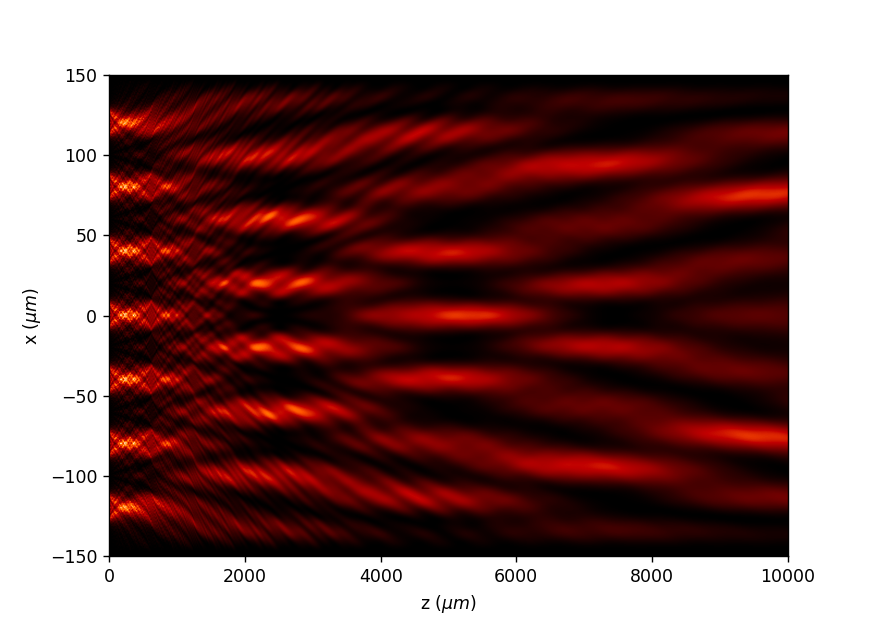
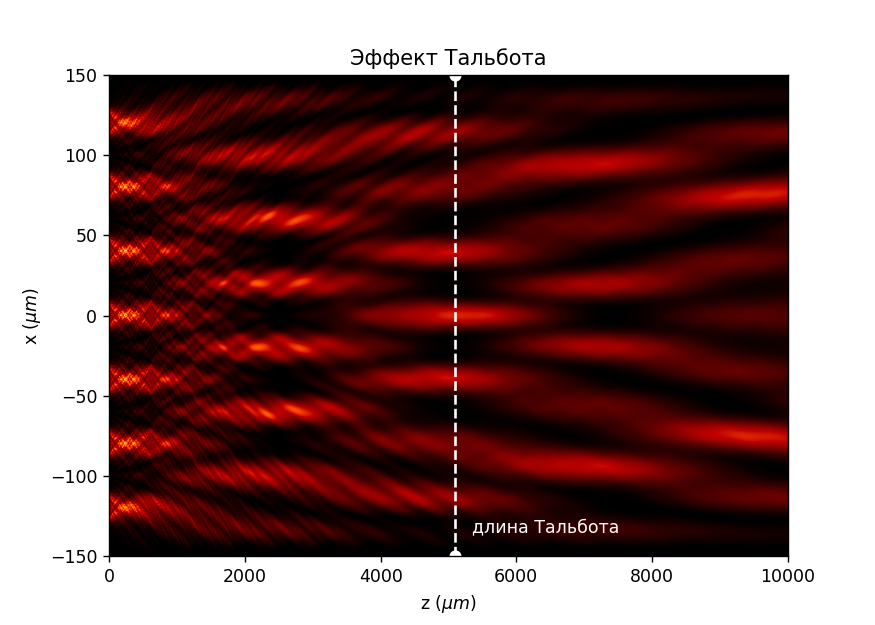
ADD: Talbot length line, title for a plot, and changed .gitignore for .idea dir

diff --git a/main.py b/main.py
@@ -13,10 +13,11 @@ import config
 rcParams['figure.figsize'] = (config.picture_resolution_x, config.picture_resolution_y)
 rcParams['figure.dpi'] = config.dpi
 
-x = np.linspace(config.start_x_axic, -config.start_x_axic, config.plot_resolution_x)
-z = np.linspace(config.start_z_axic, config.end_z_axic, config.plot_resolution_y)
 wavelength = config.wavelength
 z_talbot = 2 * config.period ** 2 / wavelength
+
+x = np.linspace(config.start_x_axic, -config.start_x_axic, config.plot_resolution_x)
+z = np.linspace(config.start_z_axic, config.end_z_axic, config.plot_resolution_y)
 
 u0 = Scalar_source_X(x, wavelength)
 u0.plane_wave(A=1)
@@ -29,6 +30,12 @@ talbot_effect.incident_field(u0 * t)
 talbot_effect.BPM()
 
 talbot_effect.draw(kind='intensity')
-plt.ylim(-config.plt_x_size, config.plt_x_size)
+plt.title('Эффект Тальбота')
+plt.ylim(-config.plt_x_size, config.plt_x_size)  # in basic world Y axis goes up
+# but here X axis go up and Z axis go right, so here can be misunderstanding
+
+# Adding to plot a line and a text to show where is Talbot's length
+plt.axline((z_talbot, -config.plt_x_size), (z_talbot, config.plt_x_size), linestyle='--', color='w', marker='o')
+plt.text(z_talbot * 1.05, -config.plt_x_size * 0.9, 'длина Тальбота', color='w')
 
 plt.savefig(config.picture_name)

diff --git a/config.py b/config.py
@@ -20,7 +20,7 @@ plot_resolution_y = int((picture_resolution_y * dpi) / 2) * 2
 
 # --------------------------
 # Modifying for user values
-wavelength = 0.6238          # virtually wave's length
+wavelength = 0.628          # virtually wave's length
 period = 40                  # period of a grid (or a wave??)
 phase_shift = 0
 
